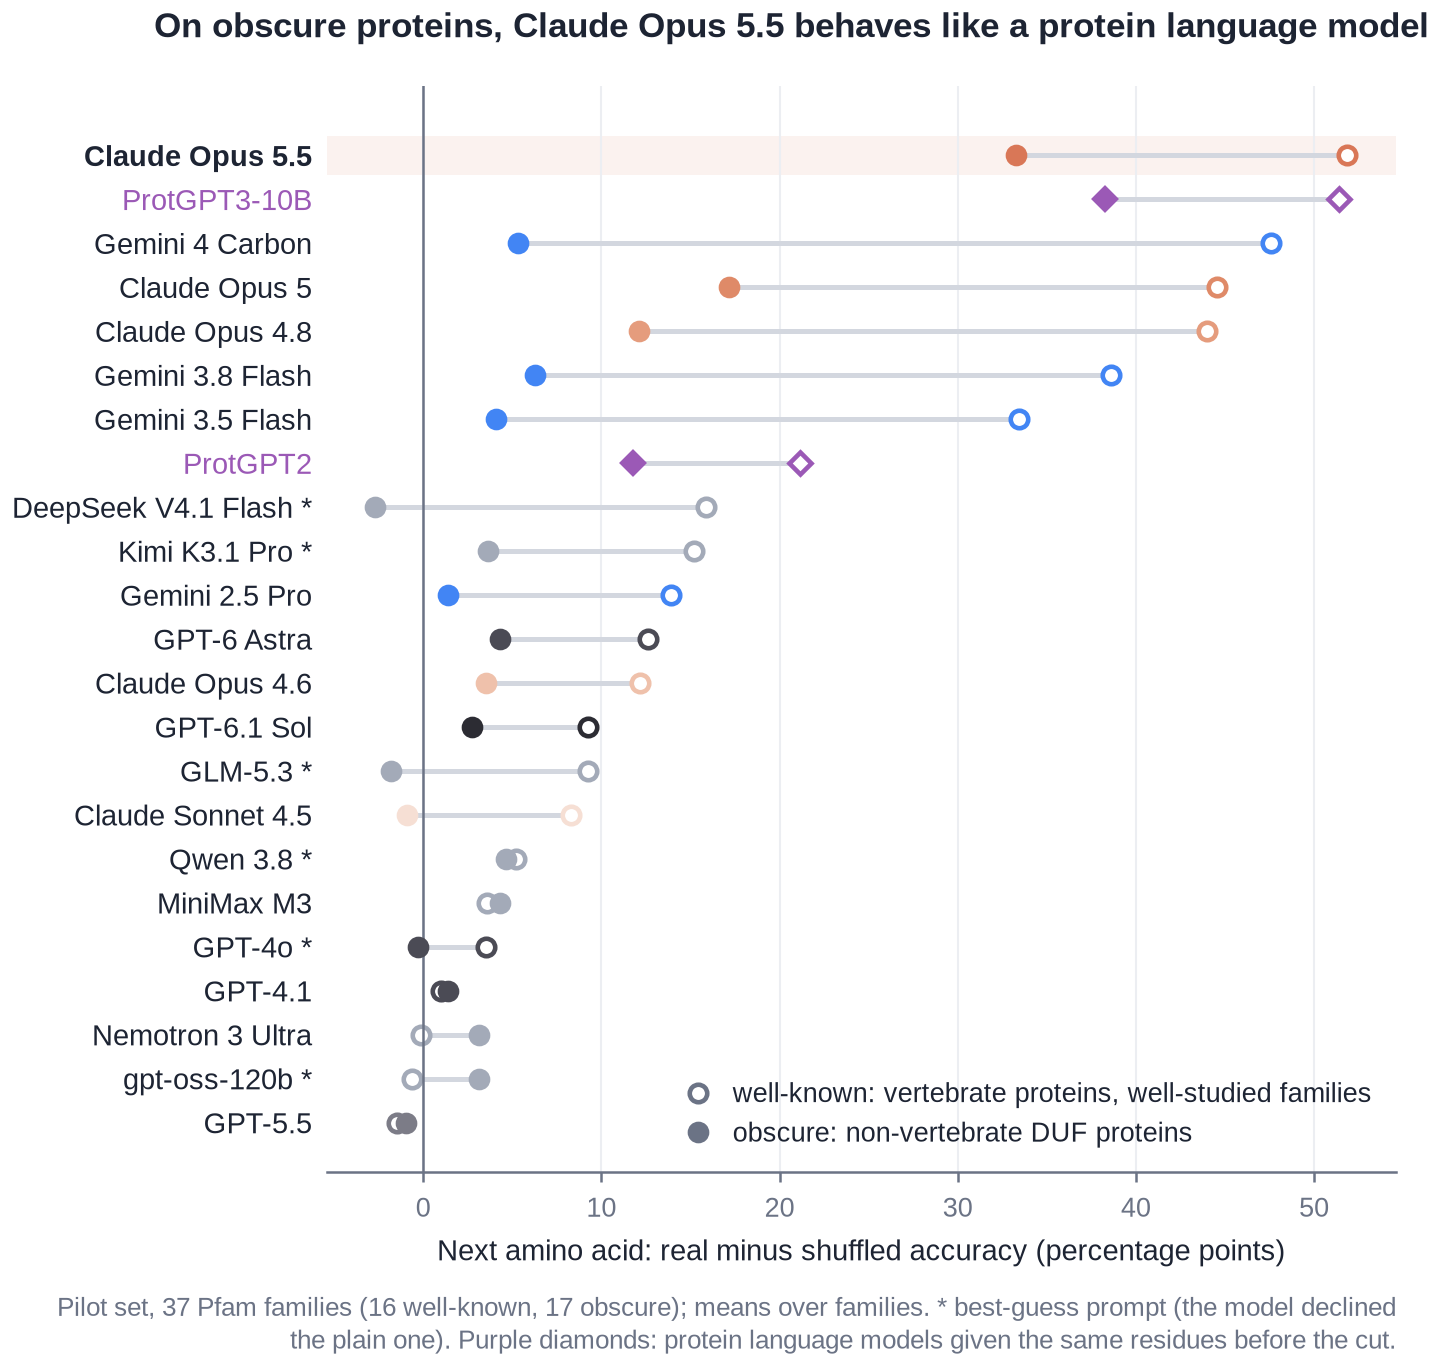
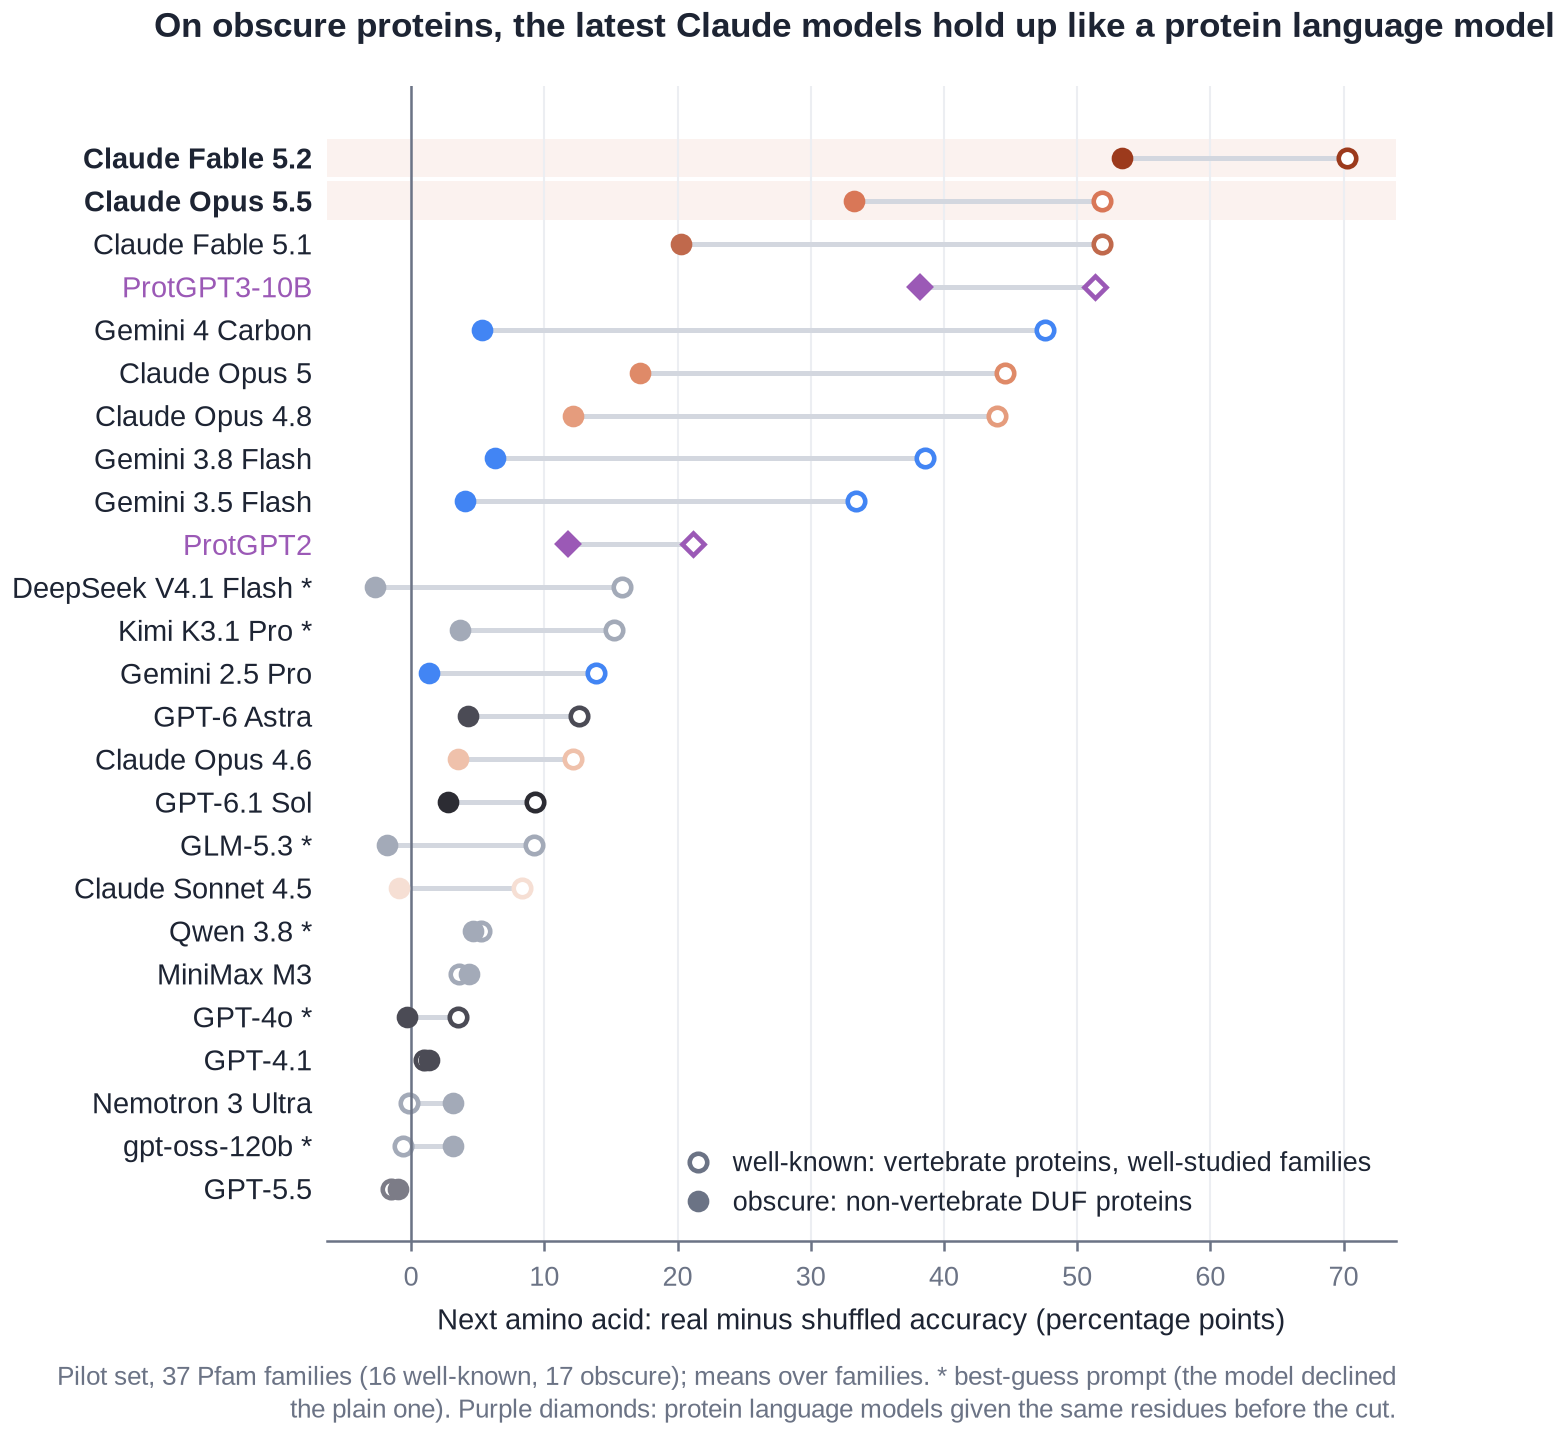
Bioseq post: Fable models on famous proteins, same reading column as other posts

diff --git a/_posts/2026-11-16-claude-opus-5-5-protein-sequences.md b/_posts/2026-11-16-claude-opus-5-5-protein-sequences.md
@@ -29,6 +29,49 @@ authors:
       name: Harvard Medical School
 
 _styles: |
+  /* Keep the article header and reading column on the same grid. */
+  @media (min-width: 768px) {
+    html body d-title h1 {
+      font-size: 38px;
+      line-height: 1.18;
+      letter-spacing: -0.025em;
+    }
+    html body d-title p {
+      font-size: 18px;
+      line-height: 1.55;
+    }
+  }
+  @media (min-width: 768px) and (max-width: 1179px) {
+    html body d-title,
+    html body d-byline,
+    html body d-article {
+      grid-template-columns: [screen-start] minmax(16px, 1fr) [page-start middle-start text-start] repeat(8, minmax(0, 63.5px)) [text-end middle-end page-end] minmax(16px, 1fr) [screen-end];
+      column-gap: 16px;
+    }
+    d-article d-contents {
+      grid-column: text;
+      grid-row: auto;
+      justify-self: stretch;
+      width: auto;
+      padding: 1rem;
+      margin: 0 0 1.5rem;
+      border: 1px solid var(--global-divider-color);
+      display: block;
+    }
+  }
+  @media (min-width: 1180px) {
+    html body d-title,
+    html body d-byline,
+    html body d-article {
+      grid-template-columns: [screen-start] 1fr [page-start kicker-start] 60px [middle-start] 60px [text-start kicker-end] repeat(8, minmax(0, 53px)) [text-end gutter-start] 60px [middle-end] 60px [page-end gutter-end] 1fr [screen-end];
+      column-gap: 32px;
+    }
+    d-article > figure.bp-figure:not(.bp-wide) {
+      grid-column: middle;
+    }
+  }
+  /* Keep the affiliation on one line in the byline. */
+  d-byline .affiliation { white-space: nowrap; }
   d-article {
     --bp-panel: #f6f7f9; --bp-ink: #1d2433; --bp-body: #3c4454; --bp-muted: #6b7385;
     --bp-faint: #b4bac6; --bp-line: #d9dde4; --bp-bead: #ffffff;
@@ -91,7 +134,7 @@ The test set is 668 bacterial and archaeal proteins from 167 Pfam families of un
 ## Results: only the latest Claude models predict them
 
 <figure class="bp-figure" markdown="0">
-  <img src="{{ '/assets/img/llm-bioseq-probe/fig1_protein.png' | relative_url }}?v=20261117h" alt="Forest plot of the real-minus-shuffled gap for 20 language models: Claude Fable 5.2 at +45.1 points, Claude Opus 5.5 at +27.4, Claude Fable 5.1 at +14.9, earlier Claude Opus models up to 10, every other model between 0 and 3.">
+  <img src="{{ '/assets/img/llm-bioseq-probe/fig1_protein.png' | relative_url }}?v=20261117i" alt="Forest plot of the real-minus-shuffled gap for 20 language models: Claude Fable 5.2 at +45.1 points, Claude Opus 5.5 at +27.4, Claude Fable 5.1 at +14.9, earlier Claude Opus models up to 10, every other model between 0 and 3.">
   <figcaption>Filled points: the chat prompt. Hollow points: raw next-token continuation of the FASTA text, through a completion endpoint or a prefilled reply, for models that allow it.</figcaption>
 </figure>
 
@@ -102,7 +145,7 @@ Fable 5.2 gets the next amino acid right 54% of the time on real proteins and 9%
 Protein language models learn only from sequences, so they are the natural yardstick. The closest to an LLM is ProtGPT3<d-cite key="garibbo2026protgpt3"></d-cite>: it reads a protein left to right and predicts the next residue, and its 10-billion-parameter version is the largest open model of its kind. On the same input, Opus 5.5 matches it and Fable 5.2 beats it.
 
 <figure class="bp-figure" markdown="0">
-  <img src="{{ '/assets/img/llm-bioseq-probe/fig6_protein_lm.png' | relative_url }}?v=20261117h" alt="Dot plot: Claude Fable 5.2 +45.1 at the top, then ProtGPT3-10B +27.7 and Claude Opus 5.5 +27.4; ESM C 600M +13.0, ProtGPT3-1.3B +11.6, ProtGPT2 +10.2, ESM3-open +8.5 and ESM-2 650M +7.0 well below.">
+  <img src="{{ '/assets/img/llm-bioseq-probe/fig6_protein_lm.png' | relative_url }}?v=20261117i" alt="Dot plot: Claude Fable 5.2 +45.1 at the top, then ProtGPT3-10B +27.7 and Claude Opus 5.5 +27.4; ESM C 600M +13.0, ProtGPT3-1.3B +11.6, ProtGPT2 +10.2, ESM3-open +8.5 and ESM-2 650M +7.0 well below.">
 </figure>
 
 ESM models are trained to see both sides of a residue, so continuing from the left is harder for them. Appendix C has all seven models.
@@ -112,7 +155,7 @@ ESM models are trained to see both sides of a residue, so continuing from the le
 If the models learned from sequences, families with more sequences should be easier. To test this over a wide range, we added 90 smaller families, down to 20 proteins each, for 257 families in all.
 
 <figure class="bp-figure" markdown="0">
-  <img src="{{ '/assets/img/llm-bioseq-probe/fig5_family_size.png' | relative_url }}?v=20261117h" alt="Line chart over seven family-size bins from 20 to over 10,000 proteins: Claude Opus 5.5 and ProtGPT3-10B rise together, almost on top of each other; Claude Fable 5.2 rises fastest and levels off from about 300 proteins; Fable 5.1 and Opus 4.7 to 5 rise at a lower level; Opus 4.5 and 4.6, GPT and Gemini stay at zero.">
+  <img src="{{ '/assets/img/llm-bioseq-probe/fig5_family_size.png' | relative_url }}?v=20261117i" alt="Line chart over seven family-size bins from 20 to over 10,000 proteins: Claude Opus 5.5 and ProtGPT3-10B rise together, almost on top of each other; Claude Fable 5.2 rises fastest and levels off from about 300 proteins; Fable 5.1 and Opus 4.7 to 5 rise at a lower level; Opus 4.5 and 4.6, GPT and Gemini stay at zero.">
 </figure>
 
 They are. Opus 5.5 and ProtGPT3-10B, which is trained on nothing but sequences, rise together, almost on top of each other. Fable 5.2 rises fastest and levels off at about 300 proteins per family. Earlier Claude models rise at a lower level, and GPT and Gemini stay at zero.
@@ -124,11 +167,10 @@ Two other explanations don't fit:
 
 ## Famous proteins and variant ranking
 
-Famous proteins are a different story. Many models do well on them, and several recite hundreds of residues letter for letter (Appendix B), because these sequences are all over papers and the web. In a first round with famous and obscure proteins side by side, Gemini 4 Carbon was strong on the famous ones and dropped to almost nothing on the obscure ones. Opus 5.5 and ProtGPT3-10B held up.
+Famous proteins are a different story. Many models do well on them, and several recite hundreds of residues letter for letter (Appendix B), because these sequences are all over papers and the web. In a first round with famous and obscure proteins side by side, Gemini 4 Carbon was strong on the famous ones and dropped to almost nothing on the obscure ones. The latest Claude models and ProtGPT3-10B held up, and Fable 5.2 was the strongest on both.
 
 <figure class="bp-figure" markdown="0">
-  <img src="{{ '/assets/img/llm-bioseq-probe/fig3_known_vs_obscure.png' | relative_url }}?v=20261117h" alt="Dumbbell chart: on well-known proteins many models score high; on obscure proteins Claude Opus 5.5 and ProtGPT3-10B stay high while Gemini 4 Carbon drops to near zero.">
-  <figcaption>This first round predates Fable 5.2 and GPT-6.1 Sol.</figcaption>
+  <img src="{{ '/assets/img/llm-bioseq-probe/fig3_known_vs_obscure.png' | relative_url }}?v=20261117i" alt="Dumbbell chart: on well-known proteins many models score high; on obscure proteins Claude Fable 5.2, Claude Opus 5.5 and ProtGPT3-10B stay high while Gemini 4 Carbon drops to near zero.">
 </figure>
 
 This also explains the SOD1 and PG-LLM results. Ranking variants of a well-known protein can lean on what is written about it: which residues are buried, which substitutions break a helix, which mutations cause ALS. In PG-LLM, accuracy doesn't depend on alignment depth and improves with more thinking, both signs of that route. Our test shuts it out. GPT-6 is good at the first kind of task and weak at the second; the latest Claude models are good at both.
@@ -161,7 +203,7 @@ All code, test sets, model outputs and figures are in [llm-bioseq-probe](https:/
 ### A. DNA
 
 <figure class="bp-figure" markdown="0">
-  <img src="{{ '/assets/img/llm-bioseq-probe/fig2_dna.png' | relative_url }}?v=20261117h" alt="Forest plot by genomic region: Claude Opus 5.5 predicts human and mouse coding sequence; nothing clear elsewhere.">
+  <img src="{{ '/assets/img/llm-bioseq-probe/fig2_dna.png' | relative_url }}?v=20261117i" alt="Forest plot by genomic region: Claude Opus 5.5 predicts human and mouse coding sequence; nothing clear elsewhere.">
 </figure>
 
 220-nucleotide windows, 200 shown and 20 to predict, from hg38, mm39 and the bacterial genes behind the test proteins, 500 per region. Non-coding windows contain no repeats, and the control shuffles each window keeping its dinucleotide counts. Opus 5.5 wrote all 20 nucleotides right 25 times in 500 human coding windows; a blind guess does that about once in a trillion. Gemini 4 Carbon blocks most DNA prompts before answering, so it is not shown.
@@ -173,19 +215,19 @@ All code, test sets, model outputs and figures are in [llm-bioseq-probe](https:/
 **Every position.** Scored one position at a time, the gap falls slowly for Fable 5.2 and Opus 5.5. Fable 5.1 and Opus 4.7, 4.8 and 5 fade faster, and the other 14 models, including those run as raw continuation, stay near zero all the way.
 
 <figure class="bp-figure" markdown="0">
-  <img src="{{ '/assets/img/llm-bioseq-probe/fig7_by_position.png' | relative_url }}?v=20261117h" alt="Line chart: real-minus-shuffled gap at positions 1 to 10 of the reply; Claude Opus 5.5 falls from 27.4 to 18.5, Opus 4.7 to 5 from about 9 to between 2 and 5, other models near zero.">
+  <img src="{{ '/assets/img/llm-bioseq-probe/fig7_by_position.png' | relative_url }}?v=20261117i" alt="Line chart: real-minus-shuffled gap at positions 1 to 10 of the reply; Claude Opus 5.5 falls from 27.4 to 18.5, Opus 4.7 to 5 from about 9 to between 2 and 5, other models near zero.">
 </figure>
 
 **Runs in a row.** On shuffled proteins neither Fable 5.2 nor Opus 5.5 gets more than 3 residues in a row. Once on track they get surer: after one right residue, Opus 5.5 gets the next right 47% of the time, after four in a row 68%.
 
 <figure class="bp-figure" markdown="0">
-  <img src="{{ '/assets/img/llm-bioseq-probe/fig8_runs.png' | relative_url }}?v=20261117h" alt="Line chart: share of replies whose first k residues are all right; Claude Opus 5.5 starts at 35% and stays above other models out to 10 residues, while its shuffled curve drops to zero by 3.">
+  <img src="{{ '/assets/img/llm-bioseq-probe/fig8_runs.png' | relative_url }}?v=20261117i" alt="Line chart: share of replies whose first k residues are all right; Claude Opus 5.5 starts at 35% and stays above other models out to 10 residues, while its shuffled curve drops to zero by 3.">
 </figure>
 
 **Reciting well-known proteins.** At 158 points in well-studied proteins, each model was asked for the next 200 residues at once.
 
 <figure class="bp-figure" markdown="0">
-  <img src="{{ '/assets/img/llm-bioseq-probe/fig4_recall.png' | relative_url }}?v=20261117h" alt="Bar chart: how often each model continues a famous protein letter for letter for 50, 100 and 200 residues.">
+  <img src="{{ '/assets/img/llm-bioseq-probe/fig4_recall.png' | relative_url }}?v=20261117i" alt="Bar chart: how often each model continues a famous protein letter for letter for 50, 100 and 200 residues.">
 </figure>
 
 GPT-6.1 Sol never reaches 100 residues, and GPT-5.5 never gets past 2.
